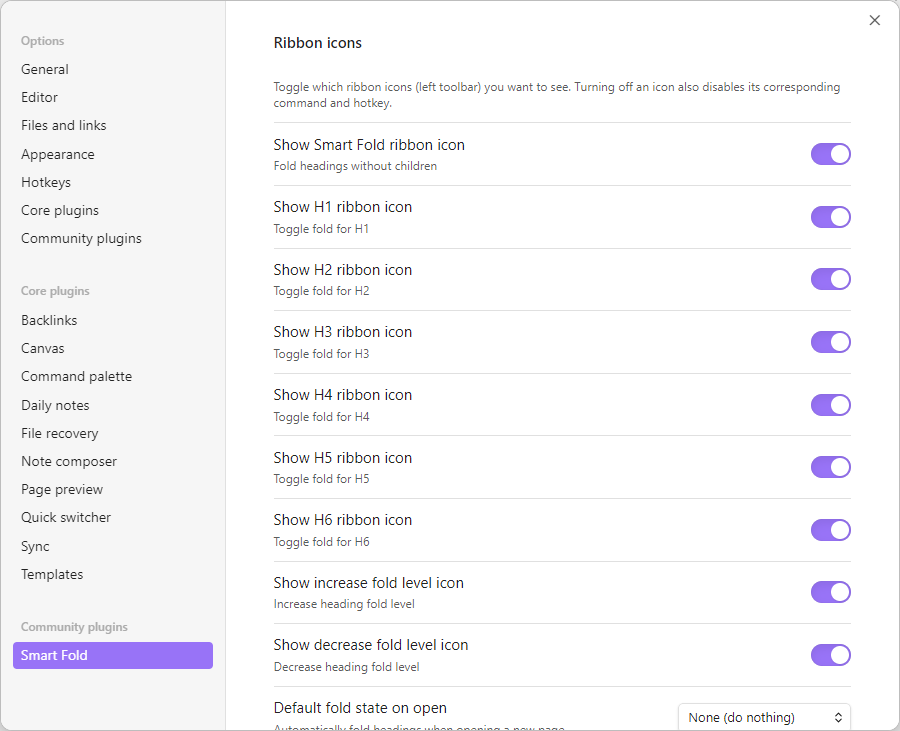
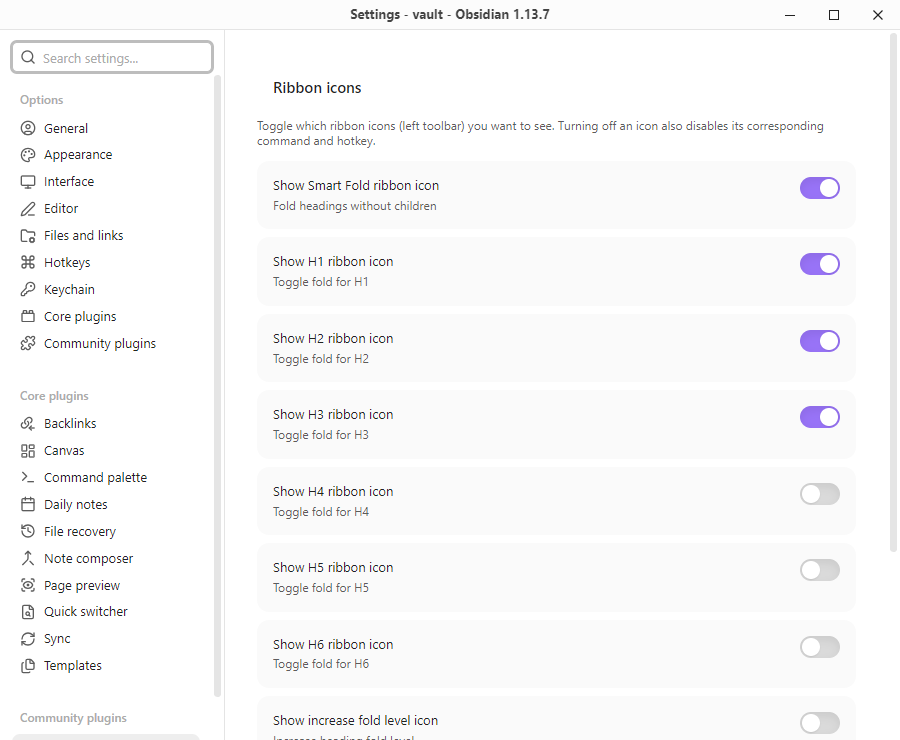
0.1.2: enable only Smart Fold and H1-H3 by default, build to repo root, fix review warnings

diff --git a/src/main.ts b/src/main.ts
@@ -56,7 +56,7 @@ export default class SmartFoldPlugin extends Plugin {
           if (defaultState === "none") return;
 
           // Adding a small delay to ensure CodeMirror is fully loaded
-          setTimeout(() => {
+          activeWindow.setTimeout(() => {
             if (defaultState === "smart") {
               this.foldHeadingsWithoutChildren(view, true);
             } else if (defaultState.startsWith("h")) {
@@ -142,7 +142,8 @@ export default class SmartFoldPlugin extends Plugin {
   }
 
   async loadSettings(): Promise<void> {
-    this.settings = Object.assign({}, DEFAULT_SETTINGS, await this.loadData());
+    const saved = (await this.loadData()) as Partial<SmartFoldSettings> | null;
+    this.settings = Object.assign({}, DEFAULT_SETTINGS, saved);
   }
 
   async saveSettings(): Promise<void> {

diff --git a/src/settings.ts b/src/settings.ts
@@ -14,16 +14,19 @@ export interface SmartFoldSettings {
     defaultFoldStateOnOpen: string;
 }
 
+// Out of the box only Smart Fold and the H1 to H3 toggles are on, which is
+// what most notes need; H4 to H6 and the H+ / H- steps can be turned on in
+// the settings tab.
 export const DEFAULT_SETTINGS: SmartFoldSettings = {
     showRibbonH1: true,
     showRibbonH2: true,
     showRibbonH3: true,
-    showRibbonH4: true,
-    showRibbonH5: true,
-    showRibbonH6: true,
+    showRibbonH4: false,
+    showRibbonH5: false,
+    showRibbonH6: false,
     showRibbonSmart: true,
-    showRibbonInc: true,
-    showRibbonDec: true,
+    showRibbonInc: false,
+    showRibbonDec: false,
     defaultFoldStateOnOpen: "none",
 };
 

diff --git a/README.md b/README.md
@@ -14,7 +14,7 @@ This is especially useful for meeting notes, research notes, project plans, long
 - **Step through heading levels**: fold one heading level deeper or shallower at a time with **H-** and **H+**, until the note shows exactly as much detail as you want.
 - **Fold a single heading level**: toggle all H1, H2, H3, H4, H5 or H6 headings of the note at once.
 - **Fold on open**: have every note you open start in Smart Fold or folded to a chosen heading level.
-- **Ribbon icons and hotkeys**: every action has its own ribbon icon and command, so you can click it or give it a hotkey.
+- **Ribbon icons and hotkeys**: every action has its own ribbon icon and command, so you can click it or give it a hotkey. Smart Fold and H1 to H3 are on by default, and the rest can be turned on in the settings.
 - **Only the tools you use**: turning an icon off in the settings also removes its command and hotkey, which keeps the ribbon and the command palette uncluttered.
 - **Native Obsidian folding**: Smart Fold uses the same folds as the arrows next to your headings. Nothing is written into your notes, and you can open any single section again by clicking its arrow.
 
@@ -35,11 +35,11 @@ Running Smart Fold again unfolds the same sections. Folds you made by hand on ot
 - **H-** folds the deepest heading level that is still open. In a note with headings down to H4, the first click folds all H4 sections, the next folds H3, then H2.
 - **H+** does the opposite and opens the shallowest folded level together with every level above it, so repeated clicks reveal the note one level at a time.
 
-The matching commands are **Decrease heading fold level** and **Increase heading fold level**.
+The matching commands are **Decrease heading fold level** and **Increase heading fold level**. Both icons are off by default, so turn them on under **Settings → Smart Fold** first.
 
 ### Folding one heading level
 
-The **H1** to **H6** icons each toggle all headings of that level in the current note. If the first heading of that level is folded, all of them are unfolded, otherwise all of them are folded. The matching commands are **Toggle fold for H1** to **Toggle fold for H6**.
+The **H1** to **H6** icons each toggle all headings of that level in the current note. **H1** to **H3** are on by default, and **H4** to **H6** can be turned on in the settings. If the first heading of that level is folded, all of them are unfolded, otherwise all of them are folded. The matching commands are **Toggle fold for H1** to **Toggle fold for H6**.
 
 ### Fold on open
 
@@ -53,7 +53,7 @@ Under **Settings → Smart Fold → Default fold state on open** you can choose 
 
 ![Smart Fold settings tab](assets/settings.png)
 
-- **Ribbon icons**: choose which of the icons **HS**, **H1** to **H6**, **H+** and **H-** appear in the left ribbon. Turning an icon off also disables its command and any hotkey assigned to it. Turning it back on restores it to its previous place in the ribbon.
+- **Ribbon icons**: choose which of the icons **HS**, **H1** to **H6**, **H+** and **H-** appear in the left ribbon. By default only **HS** and **H1** to **H3** are shown. Turning an icon off also disables its command and any hotkey assigned to it. Turning it back on restores it to its previous place in the ribbon.
 - **Default fold state on open**: see [Fold on open](#fold-on-open).
 
 To assign hotkeys, open Obsidian's **Settings → Hotkeys** and search for `Smart Fold`.

diff --git a/CHANGELOG.md b/CHANGELOG.md
@@ -1,5 +1,17 @@
 # Changelog
 
+## 0.1.2
+
+### Changed
+
+- Only the Smart Fold and H1 to H3 ribbon icons are enabled by default. H4 to H6 and the increase and decrease fold level icons, together with their commands, can be turned on in the settings. Settings you have already saved are kept.
+- Production builds are written to the repository root.
+
+### Fixed
+
+- The fold state applied when a note opens now uses `activeWindow.setTimeout()`, so it also works in popout windows.
+- Removed the `dotenv` and `builtin-modules` build dependencies in favor of Node's built-in equivalents, and updated development dependencies with known vulnerabilities.
+
 ## 0.1.1
 
 ### Fixed
